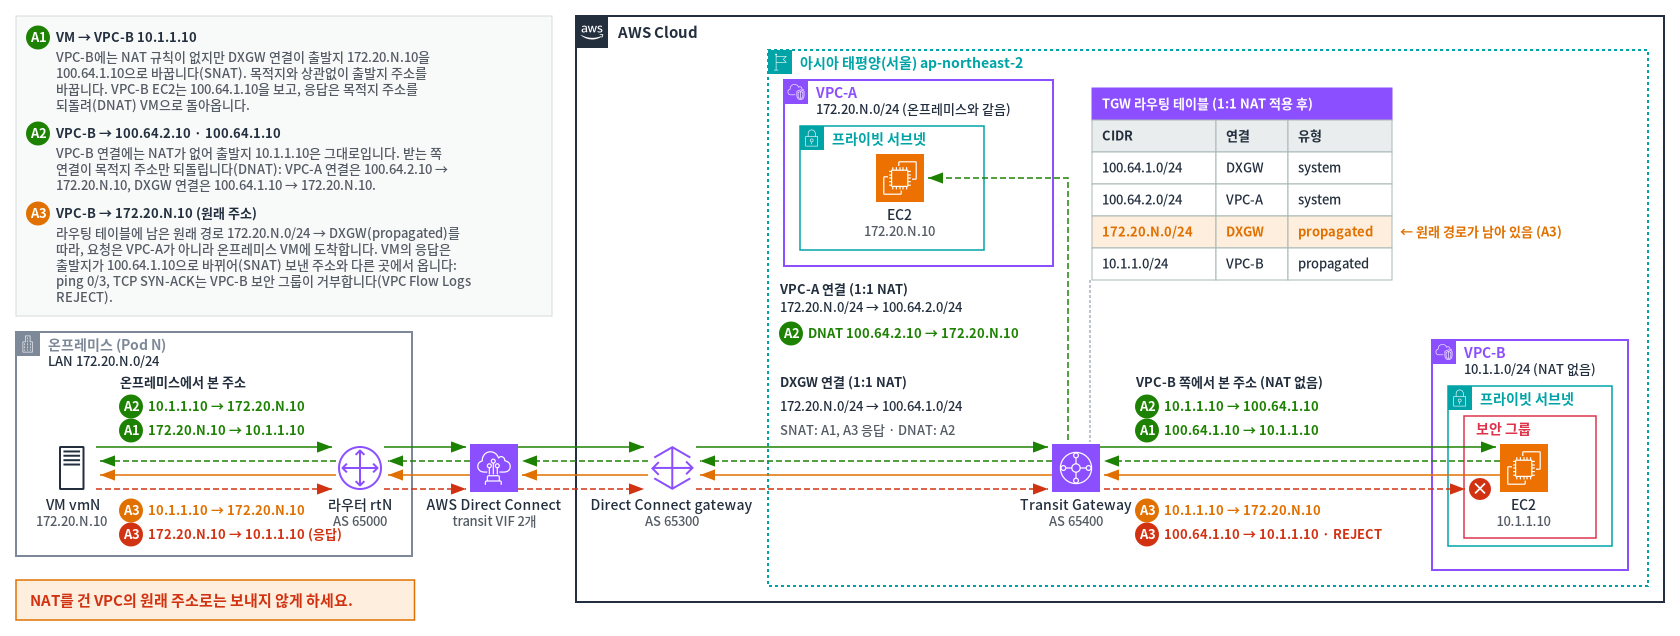
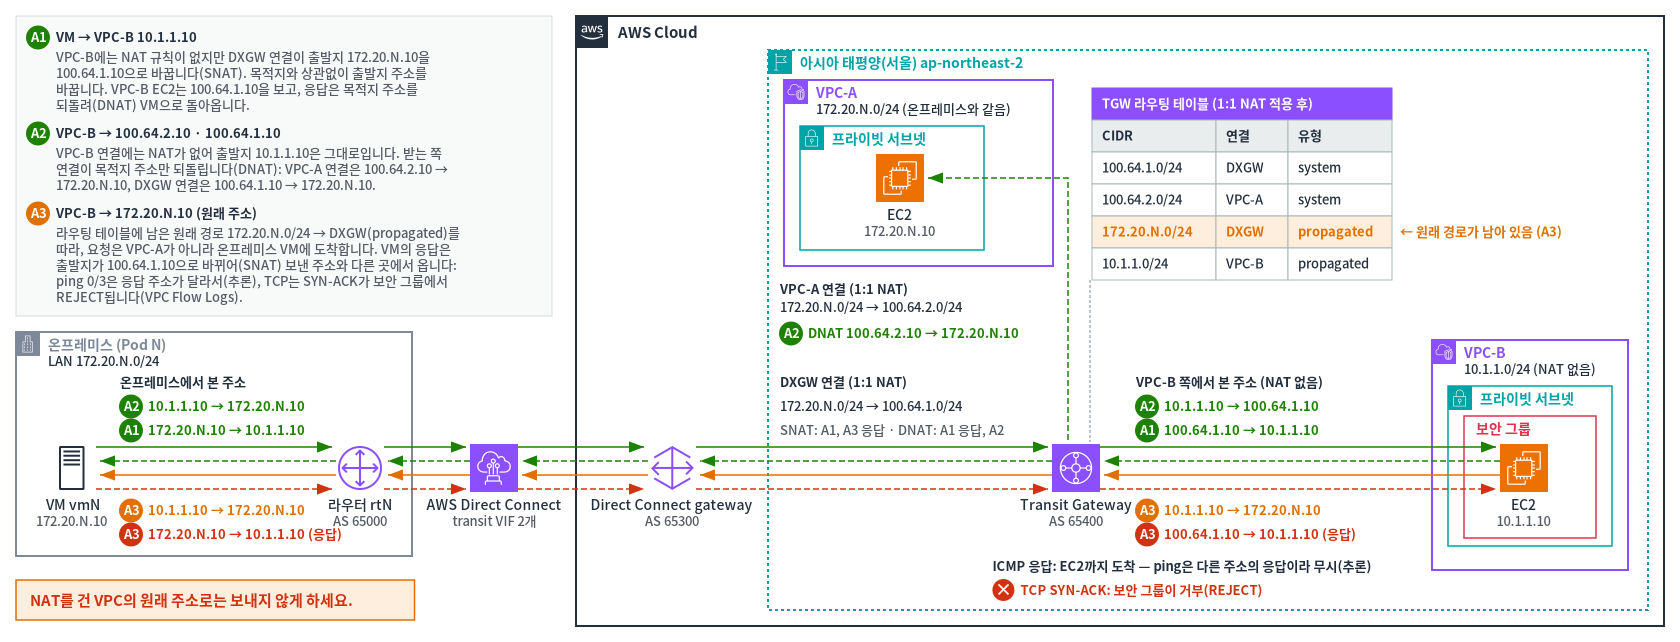
Apply re-review: ICMP reply is not blocked in A-3, mark the observed loss as a span, explain the Number view setting and simplify wording

diff --git a/docs/glossary.md b/docs/glossary.md
@@ -7,7 +7,9 @@
 | 용어 | 콘솔 이름 | 뜻 |
 |---|---|---|
 | 온프레미스 | — | 회사 데이터센터처럼 AWS 밖에 있는 네트워크. 이 워크숍에서는 여러분의 Pod(라우터와 Linux VM) |
-| hosted connection | Hosted connection | Direct Connect 파트너가 만들어 여러분 계정에 넘겨 준 회선. 수락해야 쓸 수 있습니다. VLAN 번호는 파트너가 정합니다 |
+| hosted connection(호스팅 연결) | Hosted connection | Direct Connect 파트너가 만들어 여러분 계정에 넘겨 준 회선. 수락해야 쓸 수 있습니다. VLAN 번호는 파트너가 정합니다 |
+| VLAN | VLAN | 한 회선에서 여러 통로를 나누는 번호. hosted connection마다 정해져 있습니다 |
+| ASN | ASN | BGP에서 라우터를 구분하는 번호. 이 워크숍은 라우터 65000, Direct Connect gateway 65300, Transit Gateway 65400을 씁니다 |
 | 전송 가상 인터페이스 | Transit virtual interface (transit VIF) | hosted connection 위에 만드는 논리 인터페이스. 이 위에서 온프레미스 라우터와 AWS가 BGP로 경로를 주고받습니다 |
 | Direct Connect 게이트웨이(DXGW) | Direct Connect gateway | 전송 가상 인터페이스와 Transit Gateway를 이어 주는 AWS 리소스 |
 | 게이트웨이 연결 | Gateway association | DXGW와 Transit Gateway를 잇는 설정. 온프레미스에 광고할 대역(허용된 접두사)을 여기서 정합니다 |
@@ -23,7 +25,7 @@
 | 1:1 NAT | 1:1 NAT | 대역을 다른 대역으로 한 주소씩 짝지어 바꾸는 기능. `172.20.N.10`은 항상 `100.64.1.10`처럼 같은 자리의 주소로 바뀝니다 |
 | 원래 대역, 원래 주소 | Source CIDR | 바뀌기 전의 실제 주소. 이 워크숍에서는 `172.20.N.0/24` |
 | NAT 대역, NAT 주소 | NAT CIDR | 바뀐 뒤의 주소. 이 워크숍에서는 `100.64.1.0/24`(온프레미스), `100.64.2.0/24`(VPC-A) |
-| 출발지 주소 바꾸기(SNAT) | — | Transit Gateway로 **들어오는** 패킷의 보낸 쪽 주소를 NAT 주소로 바꾸는 것 |
+| 출발지 주소 바꾸기(SNAT) | — | 규칙이 있는 연결에서 Transit Gateway로 **들어오는** 패킷 가운데, 보낸 쪽 주소가 원래 대역에 있는 것만 NAT 주소로 바꾸는 것 |
 | 목적지 주소 되돌리기(DNAT) | — | Transit Gateway에서 **나가는** 패킷의 받는 쪽 NAT 주소를 원래 주소로 되돌리는 것 |
 | 상태 없음 | Stateless | 연결을 기억하지 않고 패킷마다 규칙대로 바꾸는 방식. 그래서 어느 쪽에서 먼저 보내도 똑같이 동작합니다 |
 
@@ -36,3 +38,15 @@
 | Blackhole | Blackhole | 갈 곳이 없어 패킷을 버리는 경로 상태 |
 | NAT system routes | NAT system routes | NAT 대역 경로(System 경로)를 Transit Gateway가 만들게 할지 정하는 설정 |
 | ECMP | — | 같은 경로가 둘 있을 때 둘에 나눠 보내는 것. 이 워크숍에서는 전송 가상 인터페이스 2개를 함께 씁니다 |
+
+## 그 밖에
+
+| 용어 | 콘솔 이름 | 뜻 |
+|---|---|---|
+| CloudFormation 스택 | Stack | 템플릿 파일 하나로 여러 AWS 리소스를 한 번에 만들고 지우는 단위 |
+| EC2 Instance Connect Endpoint | EC2 Instance Connect Endpoint | 인터넷 주소가 없는 EC2에 브라우저로 접속하게 해 주는 엔드포인트 |
+| 보안 그룹 | Security group | EC2에 들어오고 나가는 트래픽을 허용하는 규칙 모음 |
+| ENI | Network interface | EC2나 Transit Gateway가 VPC 안에서 쓰는 네트워크 인터페이스 |
+| Flow Logs | Flow logs | 어떤 주소 사이에 트래픽이 오갔는지 남기는 기록. Transit Gateway용과 VPC용이 있습니다 |
+| Loopback | Loopback | 라우터 안의 가상 인터페이스. 회선과 상관없이 늘 켜져 있습니다 |
+| Null0 | Null0 | 패킷을 버리는 가상 인터페이스. 여기서는 BGP로 광고할 경로를 만들 때만 씁니다 |

diff --git a/docs/extra-c.md b/docs/extra-c.md
@@ -13,7 +13,8 @@ ping -c 200 100.64.2.10
 1. **CloudWatch** 콘솔 → **Metrics** → **All metrics** → **TransitGateway** → **Per-TransitGatewayAttachment Metrics**를 고릅니다.
 2. 세 Transit Gateway 연결의 `PacketsInNAT`, `PacketsOutNAT`을 선택합니다.
 3. **Graphed metrics** 탭에서 **Statistic**을 **Sum**으로 바꿉니다.
-4. 그래프 종류를 **Number**로 바꾸고, 시간 범위를 ping을 보낸 몇 분으로 맞춥니다.
+4. 그래프 종류를 **Number**로 바꿉니다. **Options** 탭의 **Value**에서 **Time range value**를 고릅니다(시간 범위 전체의 합을 보여 줍니다).
+5. 오른쪽 위 시간 범위를 **Custom**으로 ping을 보낸 몇 분에 맞춥니다.
 
 ![CloudWatch 지표(Number): DXGW와 VPC-A 연결의 PacketsInNAT·PacketsOutNAT가 모두 200, VPC-B는 0](images/console/extraC-01-nat-metrics.png){ .shot }
 
@@ -30,7 +31,11 @@ ping -c 200 100.64.2.10
 
 ## C-2. 두 Flow Logs 비교 { #c2 }
 
-**CloudWatch** → **Logs Insights**에서 쿼리합니다. 새 화면(**Log Analytics**)이 열려도 같습니다. 시간 범위는 **1h**로 둡니다. 쿼리를 넣고 **Run**을 누릅니다. 쿼리 안의 `N`은 내 Pod 번호로 바꿉니다.
+**CloudWatch** → **Logs Insights**를 엽니다. 새 화면(**Log Analytics**)이 열려도 같습니다.
+
+1. **Query scope**의 **Log group**에서 로그 그룹을 고릅니다.
+2. 시간 범위를 **1h**로 둡니다.
+3. 아래 쿼리를 붙여 넣고 **Run**을 누릅니다. 쿼리 안의 `N`은 내 Pod 번호로 바꿉니다.
 
 **TGW Flow Logs** — 로그 그룹 `/tgwnat/tgw-flow-logs`
 
@@ -59,5 +64,7 @@ parse @message "* * * * * * * * * * * * * * * * * * * *" as ver, vpc, eni, srcad
 **결과**
 
 - **TGW Flow Logs**는 VM과 VPC-A EC2 사이 트래픽을 `172.20.N.10 → 172.20.N.10`처럼 **양 끝의 실제 주소**로 남깁니다. 출발지는 바뀌기 전, 목적지는 되돌린 뒤의 주소입니다. 이 내용은 사전 검증(2026-11-03)에서 관찰한 것이고 문서에는 설명이 없습니다.
-- **VPC Flow Logs**는 VPC 안에서 보이는 주소를 남깁니다. VPC-A EC2의 ENI에는 상대가 `100.64.1.10`으로 기록됩니다. Transit Gateway 쪽 ENI의 기록은 `srcaddr`가 그 ENI의 주소로 보이고, 실제 상대는 `pkt_srcaddr`, `pkt_dstaddr`에 있습니다.
+- **VPC Flow Logs**는 VPC 안에서 보이는 주소를 남깁니다. 기록은 ENI(EC2나 Transit Gateway가 VPC 안에서 쓰는 네트워크 인터페이스)마다 남습니다.
+    - EC2의 ENI 기록에는 상대가 `100.64.1.10`으로 보입니다.
+    - Transit Gateway의 ENI 기록에서는 `srcaddr`가 그 ENI 자신의 주소입니다. 실제 상대 주소는 `pkt_srcaddr`, `pkt_dstaddr`에 있습니다.
 - 그래서 "상대에게 어떤 주소로 보였나"는 VPC Flow Logs나 패킷 캡처로 확인합니다.

diff --git a/docs/lab1.md b/docs/lab1.md
@@ -2,7 +2,7 @@
 
 온프레미스 라우터를 AWS의 Transit Gateway까지 연결합니다. 아직 NAT는 걸지 않습니다.
 
-연결은 아래 순서로 만듭니다. 번호는 이 실습의 단계 순서입니다.
+아래 그림의 번호 순서로 만듭니다. ①(hosted connection 수락)은 실습 0에서 이미 했습니다.
 
 ![Direct Connect 연결 구성: 라우터의 서브인터페이스 2개가 hosted connection 2개와 전송 가상 인터페이스 2개를 거쳐 Direct Connect gateway와 Transit Gateway에 연결된다. 라우터는 172.20.N.0/24와 10.200.0.1/32를 광고하고, 허용된 접두사 100.64.2.0/24와 10.1.1.0/24를 받는다](images/diagrams/lab1-dx-build.png)
 
@@ -22,7 +22,7 @@ ASN은 BGP에서 쓰는 번호입니다. 이 워크숍은 라우터 65000, Direc
 
 ## 1-2. Transit Gateway와 연결하기 { #lab1-2 }
 
-이 연결은 몇 분 걸리므로 일찍 시작해 둡니다.
+게이트웨이 연결은 몇 분 걸리므로 일찍 시작해 둡니다.
 
 1. **Direct Connect gateways** 목록에서 방금 만든 게이트웨이의 ID를 누릅니다(목록에는 이름 대신 ID가 보입니다).
 2. **Gateway associations** 탭 → **Associate gateway**를 누릅니다.
@@ -71,7 +71,9 @@ hosted connection 하나에는 전송 가상 인터페이스를 하나만 만들
 2. **Peerings** 탭에서 세 값을 적습니다: **BGP authentication key**, **Your router peer IP**, **Amazon router peer IP**.
 3. `tgw-nat-vif2`도 같은 값을 적습니다.
 
-![Peerings 탭: BGP ASN 65000, BGP 키(가림), Your router peer IP 169.254.96.54/29, Amazon router peer IP 169.254.96.49/29, BGP status Up](images/console/lab1-vif-05-peering.png){ .shot }
+![Peerings 탭(라우터 설정 뒤 화면): BGP ASN 65000, BGP 키(가림), Your router peer IP 169.254.96.54/29, Amazon router peer IP 169.254.96.49/29, BGP status Up](images/console/lab1-vif-05-peering.png){ .shot }
+
+위 화면은 라우터 설정을 마친 뒤의 모습입니다. 지금은 **BGP status**가 **Down**이어도 괜찮습니다.
 
 ## 1-5. 라우터 설정 { #lab1-5 }
 
@@ -101,7 +103,7 @@ show ip bgp | begin Network
 - `10.1.1.0/24`와 `100.64.2.0/24`를 받았습니다. 1-2에서 넣은 허용된 접두사입니다.
 - 콘솔의 두 전송 가상 인터페이스가 **Available**, **BGP status**가 **Up**입니다.
 
-이제 VPC-B까지 통신해 봅니다. NAT 규칙과 상관없는 Loopback1 주소(`10.200.0.1`)에서 보냅니다.
+이제 VPC-B까지 통신해 봅니다. Loopback1은 라우터 안의 가상 인터페이스입니다. 주소 `10.200.0.1`은 NAT 규칙의 원래 대역에 없으므로 바뀌지 않습니다.
 
 ```text
 ping 10.1.1.10 source Loopback1 repeat 5

diff --git a/docs/extra-a.md b/docs/extra-a.md
@@ -2,7 +2,7 @@
 
 NAT 규칙이 없는 VPC-B와 통신할 때 주소가 어떻게 보이는지 봅니다. 그리고 NAT 뒤에도 남아 있는 원래 경로 때문에 생기는 일을 확인합니다. [실습 2](lab2.md)를 마친 뒤에 합니다.
 
-![세 가지 흐름: A1 VM에서 VPC-B로 보내면 출발지가 100.64.1.10으로 바뀐다. A2 VPC-B에서 NAT 주소로 보내면 받는 쪽에서만 목적지가 바뀐다. A3 VPC-B에서 원래 주소 172.20.N.10으로 보내면 남아 있는 경로를 따라 온프레미스 VM에 도착하고, 응답은 VPC-B 보안 그룹에서 거부된다](images/diagrams/extra-a-vpcb-and-original-route.png)
+![세 가지 흐름: A1 VM에서 VPC-B로 보내면 출발지가 100.64.1.10으로 바뀐다. A2 VPC-B에서 NAT 주소로 보내면 받는 쪽에서만 목적지가 바뀐다. A3 VPC-B에서 원래 주소 172.20.N.10으로 보내면 남아 있는 경로를 따라 온프레미스 VM에 도착한다. 응답은 다른 주소(100.64.1.10)에서 온 것으로 보여 ping은 세지 않고, TCP 응답은 VPC-B 보안 그룹이 거부한다](images/diagrams/extra-a-vpcb-and-original-route.png)
 
 ## A-1. 온프레미스 → VPC-B { #a1 }
 
@@ -60,7 +60,9 @@ VM의 웹 서버는 그대로 둡니다(A-2에서 띄운 것).
 
 - NAT 뒤에도 라우팅 테이블에 온프레미스의 원래 경로 `172.20.N.0/24`가 남아 있습니다([실습 2-6](lab2.md#lab2-6)). 그래서 원래 주소로 보내면 VPC-A가 아니라 **온프레미스**로 갑니다.
 - VM의 응답은 DXGW 연결을 지나며 출발지가 `100.64.1.10`으로 바뀝니다.
-- VPC-B 입장에서는 보낸 적 없는 주소에서 응답이 온 셈입니다. 사전 검증에서는 TCP 응답이 VPC-B 보안 그룹에서 거부된 기록(VPC Flow Logs의 **REJECT**)을 확인했습니다. ping도 같은 이유로 응답을 받지 못한 것으로 보입니다(추론).
+- VPC-B 입장에서는 보낸 적 없는 주소에서 응답이 온 셈입니다.
+- ping 응답은 VPC-B EC2까지 도착합니다(보안 그룹이 `100.64.1.0/24`의 ICMP를 허용). 하지만 보낸 주소와 다른 주소에서 온 응답이라 ping이 성공으로 세지 않은 것으로 보입니다(추론).
+- TCP 응답(SYN-ACK)은 VPC-B 보안 그룹이 거부합니다. 사전 검증(2026-11-03)에서 VPC Flow Logs의 **REJECT** 기록으로 확인했습니다.
 
 !!! warning "실제 환경에서 주의할 점"
     NAT를 건 VPC의 원래 주소로는 다른 네트워크가 보내지 않게 하세요. 의도하지 않은 곳(이 실습에서는 온프레미스)으로 갈 수 있습니다.

diff --git a/docs/extra-b.md b/docs/extra-b.md
@@ -11,7 +11,7 @@ DXGW 연결에는 **NAT system routes** 설정이 있습니다. NAT 대역(`100.
 
 ## B-1. 켜져 있을 때 { #b1 }
 
-켜져 있으면 `100.64.1.0/24` 경로(**System**)는 온프레미스가 원래 대역과 겹치는 경로를 광고하는 동안만 **Active**입니다. 겹치는 경로란 같은 대역, 더 작은 대역, 그것을 포함하는 큰 대역(요약 경로)을 말합니다. 광고가 없으면 **Blackhole**이 됩니다.
+켜져 있으면 `100.64.1.0/24` 경로(**System**)는 온프레미스가 원래 대역과 겹치는 경로를 광고하는 동안만 **Active**입니다. 겹치는 경로란 같은 대역(`172.20.N.0/24`), 그 안의 더 좁은 대역(예: `172.20.N.0/25`), 그것을 포함하는 넓은 대역(예: `172.20.0.0/16`, 요약 경로)을 말합니다. 광고가 없으면 **Blackhole**이 됩니다.
 
 이 과제에서는 Blackhole을 보기 위해 원래 대역 광고를 **잠시** 멈춥니다.
 
@@ -31,7 +31,7 @@ DXGW 연결에는 **NAT system routes** 설정이 있습니다. NAT 대역(`100.
 
     Blackhole일 때 **Resource type**이 **VPN**으로 보이기도 하지만, 같은 DXGW 연결의 경로입니다.
 
-3. 이번에는 큰 대역 `172.20.0.0/16`을 광고합니다(요약 경로).
+3. 이번에는 넓은 대역 `172.20.0.0/16`을 광고합니다(요약 경로). 명령의 `Null0` 경로는 BGP로 광고하려고 만드는 경로이고, 실제 패킷은 이 경로로 보내지 않습니다.
 
     ```text
     configure terminal
@@ -67,7 +67,7 @@ DXGW 연결에는 **NAT system routes** 설정이 있습니다. NAT 대역(`100.
 !!! warning "원래 대역 광고는 계속 유지하세요"
     끈 상태에서도 라우터의 `172.20.N.0/24` 광고는 그대로 둡니다. 문서는 끈 경우 원래 대역을 광고할 필요가 없다고 설명하지만, 사전 검증에서는 원래 대역 광고를 멈추자 통신이 끊겼습니다. 자세한 내용은 [사전 검증에서 관찰한 동작](observed.md)에 있습니다.
 
-1. 라우터에서 `100.64.1.0/24` 광고를 추가합니다.
+1. 라우터에서 `100.64.1.0/24` 광고를 추가합니다. 여기서도 `Null0` 경로는 광고용입니다.
 
     ```text
     configure terminal

diff --git a/docs/observed.md b/docs/observed.md
@@ -14,7 +14,7 @@
 
 ### 관찰한 것 { #observed }
 
-![관찰한 손실 위치: VPC-A에서 온프레미스로 가는 패킷이 Transit Gateway에서 주소가 바뀐 뒤 DXGW 연결로 나갔지만, 라우터에는 도착하지 않았다. 반대 방향은 전달됐다](images/diagrams/observed-loss-location.png)
+![관찰한 손실 구간: VPC-A에서 온프레미스로 가는 패킷이 Transit Gateway에서 주소가 바뀌어 DXGW 연결로 나간 것으로 집계됐지만, 라우터에는 도착하지 않았다. 그 사이 어딘가에서 사라졌다. 반대 방향은 전달됐다](images/diagrams/observed-loss-location.png)
 
 조건: 2026-11-03, 서울 리전, DXGW 연결, 같은 파트너의 50Mbps hosted connection 2개, 라우터 Cisco IOS XE 16.12, Pod 1개.
 
@@ -37,10 +37,10 @@
 | 지점 | 끊긴 동안 |
 |---|---|
 | Transit Gateway → DXGW 연결 | 주소를 바꾼 패킷이 평소처럼 나감(`PacketsOut` = `PacketsOutNAT`, 분당 약 580). Transit Gateway가 버린 기록은 없음 |
-| 라우터 도착 | 늘어나지 않음(라우터의 인바운드 ACL 카운터, NAT 주소·원래 주소 모두) |
+| 라우터 도착 | 라우터가 받은 패킷을 세는 카운터(인바운드 ACL)가 늘지 않음. NAT 주소·원래 주소 모두 |
 | VM 도착 | 0개(VM 패킷 캡처, 2·3번째) |
 
-Transit Gateway는 패킷을 DXGW 연결로 내보냈지만, 라우터에는 닿지 않았습니다. 되돌린 목적지는 원래 주소(`172.20.N.10`)입니다. 그래서 Direct Connect gateway가 온프레미스에게서 그 주소의 경로를 배워야 전달할 수 있는 것으로 보입니다(추론). Direct Connect gateway 안은 직접 볼 수 없었습니다.
+패킷은 DXGW 연결로 나간 것으로 집계됐지만(`PacketsOut`), 라우터에는 닿지 않았습니다. 그 사이 어디서 사라졌는지는 정확히 알 수 없습니다. 되돌린 목적지는 원래 주소(`172.20.N.10`)입니다. 그래서 Direct Connect gateway가 온프레미스에게서 그 주소의 경로를 배워야 전달할 수 있는 것으로 보입니다(추론). Direct Connect gateway 안은 직접 볼 수 없었습니다.
 
 ## 워크숍에서의 안내 { #guide }
 

diff --git a/docs/extra-d.md b/docs/extra-d.md
@@ -6,7 +6,7 @@
     **Connections**의 hosted connection 2개는 그대로 둡니다. 운영자가 회수합니다.
 
 1. **1:1 NAT 끄기**: 두 Transit Gateway 연결(DXGW, VPC-A)의 **Manage 1:1 NAT**에서 **Enable NAT Gateway support**를 해제하고 저장합니다. 규칙은 남아 있어도 됩니다(상태가 **Deactivated**로 바뀝니다).
-2. **게이트웨이 연결 끊기**: **Direct Connect gateways** → 게이트웨이 ID → **Gateway associations** 탭에서 연결을 고르고 **Disassociate**를 누릅니다. 상태가 **disassociated**가 될 때까지 기다립니다. 이 연결이 남아 있으면 스택이 Transit Gateway를 지우지 못합니다.
+2. **게이트웨이 연결 끊기**: **Direct Connect gateways** → 게이트웨이 ID → **Gateway associations** 탭에서 게이트웨이 연결을 고르고 **Disassociate**를 누릅니다. 상태가 **disassociated**가 될 때까지 기다립니다. 게이트웨이 연결이 남아 있으면 스택이 Transit Gateway를 지우지 못합니다.
 3. **전송 가상 인터페이스 지우기**: **Virtual interfaces**에서 `tgw-nat-vif1`, `tgw-nat-vif2`를 하나씩 고르고 **Delete**를 누릅니다.
 4. **Direct Connect gateway 지우기**: 두 인터페이스가 지워진 뒤 게이트웨이를 고르고 **Delete**를 누릅니다.
 5. **스택 지우기**: **CloudFormation** → `tgw-nat-workshop` → **Delete**를 누릅니다. 로그도 함께 지워집니다.

diff --git a/docs/router-config.md b/docs/router-config.md
@@ -91,8 +91,8 @@
 
 | 값 | 찾는 곳 |
 |---|---|
-| Pod 번호 N | 참가자 정보 페이지(`podN`) |
-| VIF 1·2 VLAN | 참가자 정보 페이지, 또는 전송 가상 인터페이스 상세의 **VLAN** |
+| Pod 번호 N | 실습 장비 페이지(`podN`) |
+| VIF 1·2 VLAN | 실습 장비 페이지, 또는 전송 가상 인터페이스 상세의 **VLAN** |
 | Your router peer IP, Amazon router peer IP, BGP authentication key | 전송 가상 인터페이스 상세 → **Peerings** 탭 |
 
 피어 IP는 `/29`를 붙인 채로 넣어도 됩니다. 첫 번째 인터페이스는 `awsdx1_…`(라우터 `GigabitEthernet1`), 두 번째는 `awsdx2_…`(`GigabitEthernet2`)의 것입니다.
